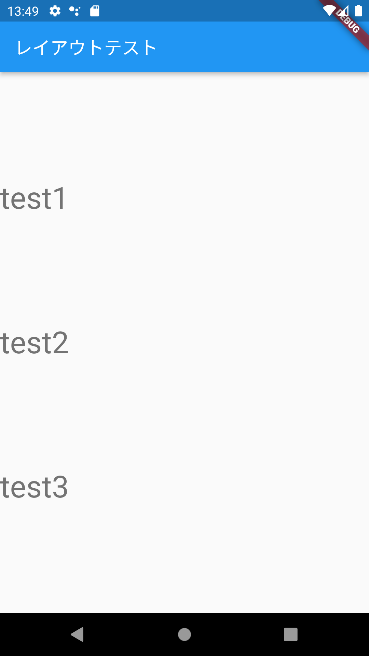
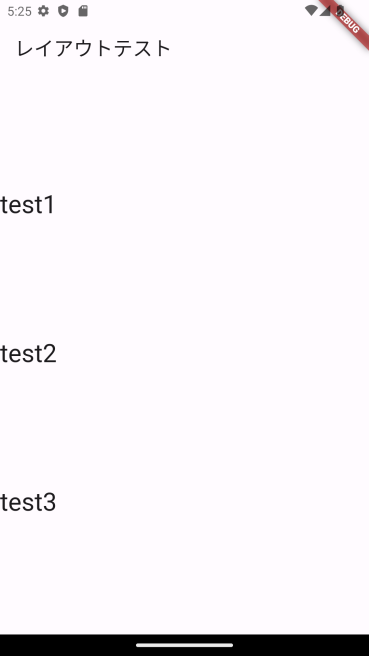
画像の置き換え

diff --git a/docs/flutter/02/index.md b/docs/flutter/02/index.md
@@ -111,52 +111,54 @@ body: Column(
 
     ```dart
     import 'package:flutter/material.dart';
-
+    
     void main() {
       runApp(const MyApp());
     }
-
+    
     class MyApp extends StatelessWidget {
-      const MyApp({Key? key}) : super(key: key);
-
+      const MyApp({super.key});
+    
       @override
       Widget build(BuildContext context) {
         return MaterialApp(
           title: 'Flutter Demo',
           theme: ThemeData(
-            primarySwatch: Colors.blue,
+            colorScheme: ColorScheme.fromSeed(seedColor: Colors.deepPurple),
+            useMaterial3: true,
           ),
           home: const LayoutTest(),
         );
       }
     }
-
+    
     class LayoutTest extends StatelessWidget {
       const LayoutTest({Key? key}) : super(key: key);
-
+    
       @override
       Widget build(BuildContext context) {
         return Scaffold(
-            appBar: AppBar(
-              title: const Text('レイアウトテスト'),
-            ),
-            body: Column(
-              mainAxisAlignment: MainAxisAlignment.start,
-              children: [
-                Text(
-                  'test1',
-                  style: Theme.of(context).textTheme.headline4,
-                ),
-                Text(
-                  'test2',
-                  style: Theme.of(context).textTheme.headline4,
-                ),
-                Text(
-                  'test3',
-                  style: Theme.of(context).textTheme.headline4,
-                ),
-              ],
-            ));
+          appBar: AppBar(
+            title: const Text('レイアウトテスト'),
+          ),
+          body: Column(
+            mainAxisAlignment: MainAxisAlignment.start,
+            children: [
+              Text(
+                'test1',
+                style: Theme.of(context).textTheme.headlineMedium,
+              ),
+              Text(
+                'test2',
+                style: Theme.of(context).textTheme.headlineMedium,
+              ),
+              Text(
+                'test3',
+                style: Theme.of(context).textTheme.headlineMedium,
+              ),
+            ],
+          ),
+        );
       }
     }
     ```
